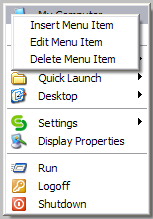
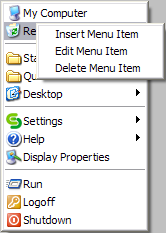
Documentation updates for 5.2.11

diff --git a/Documentation/emergeWorkspace.html b/Documentation/emergeWorkspace.html
@@ -33,7 +33,7 @@
 
 <p class="style1"><img src="WorkspaceConfig2.png" width="446" height="459"></p>
 <p class="style1" style="margin-bottom: 0;">To Add <img src="Add.png" width="24" height="23" style="width: 24px; height: 23px;"> a new menu item, the user selects one of the following <strong>Types</strong>:</p>
-<p style="margin-top: 0;"><span class="style4">Separator, Executable </span><span class="style3">(in </span><span class="style3"><strong>Value</strong></span><span class="style3"> window,  Browse <img src="BrowseFile.png" width="26" height="25"> for a file)</span><span class="style4">, Internal Command</span><span class="style3"> (list in <strong>Value</strong> window is <a href="internal.html">here</a>)</span><span class="style4">, Date Time</span><span class="style3"> (available formats which can be entered in <strong>Value</strong> window are <a href="TimeDate.html">here</a>)</span><span class="style4">, Special Folders </span><span class="style3">(list in <strong>Value</strong> window is: </span><span class="style4">My Documents, My Computer, My Network Places, Control Panel, Recycle Bin), Submenu </span><span class="style3">(which, after clicking Save <span class="style3" style="margin-top: 0; margin-bottom: 0;"><img src="Save.png" width="24" height="23" style="width: 24px; height: 23px;"></span> , is populated with any <strong>Type</strong> of items by clicking on the <strong>+</strong> sign, highlighting an item inside the Submenu, and clicking on Add <span class="style3" style="margin-top: 0; margin-bottom: 0;"><img src="Add.png" width="24" height="23" style="width: 24px; height: 23px;"></span> for each additional item),</span><span class="style4"> Folder Menu</span><span class="style3"> (in <strong>Value</strong> window</span><span class="style4">, </span><span class="style3">Browse <span class="style3" style="margin-top: 0; margin-bottom: 0;"><img src="Browse.png" width="24" height="23" style="width: 24px; height: 23px;"></span> to any Folder*)</span><span class="style4">, Tasks Menu</span><span class="style3"> (i.e. to display the running Tasks from a folder)</span><span class="style4">, Settings Menu</span><span class="style3"> (i.e. the Emerge Desktop menu)</span>.</p>
+<p style="margin-top: 0;"><span class="style4">Separator, Executable </span><span class="style3">(in </span><span class="style3"><strong>Value</strong></span><span class="style3"> window,  Browse <img src="BrowseFile.png" width="26" height="25"> for a file)</span><span class="style4">, Internal Command</span><span class="style3"> (list in <strong>Value</strong> window is <a href="internal.html">here</a>)</span><span class="style4">, Date Time</span><span class="style3"> (available formats which can be entered in <strong>Value</strong> window are <a href="TimeDate.html">here</a>)</span><span class="style4">, Special Folders </span><span class="style3">(list in <strong>Value</strong> window is: </span><span class="style4">My Documents, My Computer, My Network Places, Control Panel, Recycle Bin), Submenu </span><span class="style3">(which, after clicking Save <span class="style3" style="margin-top: 0; margin-bottom: 0;"><img src="Save.png" width="24" height="23" style="width: 24px; height: 23px;"></span> , is populated with any <strong>Type</strong> of items by clicking on the <strong>+</strong> sign, highlighting an item inside the Submenu, and clicking on Add <span class="style3" style="margin-top: 0; margin-bottom: 0;"><img src="Add.png" width="24" height="23" style="width: 24px; height: 23px;"></span> for each additional item),</span><span class="style4"> Folder Menu</span><span class="style3"> (in <strong>Value</strong> window</span><span class="style4">, </span><span class="style3">Browse <span class="style3" style="margin-top: 0; margin-bottom: 0;"><img src="Browse.png" width="24" height="23" style="width: 24px; height: 23px;"></span> to any Folder*)</span><span class="style4">, Tasks Menu</span><span class="style3"> (i.e. to display the running Tasks from a folder)</span><span class="style4">, Settings Menu</span><span class="style3"> (i.e. the Emerge Desktop menu), Help Menu (Emerge Desktop Help Menu)</span>.</p>
 <p><span class="style1" style="margin-top: 0; margin-bottom: 0;">The user then  types a <strong>Name</strong></span> for the new item, and clicks on Save <img src="Save.png" width="24" height="23" style="width: 24px; height: 23px;"> (or Discard <img src="Discard.png" width="24" height="23" style="width: 24px; height: 23px;"> to start over). Pressing the <strong>OK </strong>button saves the current settings and closes the configuration dialog box.</p>
 <p class="style3" style="margin-bottom: 0;">Menu items displayed in the window can be Modified <img src="Edit.png" width="24" height="23" style="width: 24px; height: 23px;"> or Deleted <img src="Delete.png" width="24" height="23" style="width: 24px; height: 23px;"> after highlighting them. </p>
 <p class="style3" style="margin-top: 0;">After the user adds, deletes or modifies incorrectly an item, she can undo changes by clicking the <strong>Cancel</strong> button. A dialog box will open asking for confirmation to close the configuration dialog box without saving the changes made.</p>
@@ -41,7 +41,7 @@
 <p class="style3">Menu items can be moved up and down by dragging them past other items.</p>
 <p>The context menu of any executable item in the Desktop menu includes &quot;Run as...&quot; or &quot;Run Elevated&quot;, both allowing to run these items from an administrator account after selecting the administrator's user name (or typing an other existing user name) and entering the password in the Run As dialog box. The Emerge Desktop context menu also includes &quot;Open Directory&quot;.</p>
 <p class="style1">The Right<span class="style1" style="margin-top: 0; margin-bottom: 0;">Click</span> and Middle<span class="style1" style="margin-top: 0; margin-bottom: 0;">Click</span> menus can also be edited without opening the Menu Editor, by right-clicking an item directly on the menu:</p>
-<p class="style1"><img src="InsertMenu.png" width="153" height="219"></p>
+<p class="style1"><img src="InsertMenu.png" width="166" height="233"></p>
 <p class="style1"><strong>Insert Menu Item</strong> and <strong>Edit Menu Item</strong> bring up this dialog box (the fields are filled the same way as above):</p>
 <p><span class="style1"><img src="MenuItem.png" width="314" height="186"></span></p>
 <p><span class="style3" style="margin-top: 0; margin-bottom: 0;"><strong>Delete  Menu Item</strong> deletes the highlighted item. <strong>OK</strong> and <strong>Cancel</strong> close the dialog box</span></p>
@@ -52,7 +52,7 @@
     </tr>
 </table>
 <p class="style1">Right-clicking on the desktop brings up the RightClick menu. The default <span class="style1" style="margin-top: 0">RightClick</span> menu includes Windows standard items and <strong>Settings</strong>, Emerge Desktop configuration options:</p>
-<span class="style1"><img src="RightMenu.png" width="148" height="213" border="0" alt="RightMenu"></span>
+<span class="style1"><img src="RightMenu.png" width="150" height="234" border="0" alt="RightMenu"></span>
 <p class="style1">Middle-clicking on the desktop brings up the MiddleClick menu. The default <span class="style1" style="margin-bottom: 0">MiddleClick </span>includes some of Emerge Desktop's internal commands:</p>
 </p>
 <span class="style1"><img src="MidMenu.png" width="130" height="87" border="0" alt="MidMenu"></span>

diff --git a/Documentation/Styles.html b/Documentation/Styles.html
@@ -53,7 +53,8 @@
 <p class="style3"><img src="StyleEditor4.png" width="446" height="459"></p>
 <p class="style3"><b>Miscellaneous Settings</b>:</p>
 <p class="style3" style="margin-bottom: 0;"><b>Shadow</b>: Sets the drop shadow on or off (Default is On)<br>
-    <b>Padding</b>: Sets the width of the area surrounding the icons. (Default is 0)<br>
+  <b><span class="style3" style="margin-top: 0; margin-bottom: 0;">Blur: </span></b><span class="style3" style="margin-top: 0; margin-bottom: 0;">Gives a blurred effect to the background of the applets (i.e. the "Glass" effect) when the Opacity Setting of the Background is less than 100. (Default is Off)</span><b><span class="style3" style="margin-top: 0; margin-bottom: 0;"><br>
+      </span>Padding</b>: Sets the width of the area surrounding the icons. (Default is 0)<br>
     <b>Bevel</b>: Sets the width of the bevel surrounding the applets. (Default is 1)<br>
     <b>Border</b>: Sets the width of the border surrounding the applets. (Default is 1)</p>
 <p class="style3" style="margin-top: 0;"><b>Bevel Type</b>: <strong>Flat</strong> (default), <strong>Raised</strong> (center looks higher than borders, like a button), <strong>Sunken</strong> (center looks lower than borders, like a tray)</p>

diff --git a/Documentation/whatsnew.html b/Documentation/whatsnew.html
@@ -9,29 +9,6 @@
 <table bgcolor="#7f907f" cellpadding="5" cellspacing="0" width="100%">
 <tr><td><font color="white"><b>What's New / History</b></font></td></tr></table>
 
-<p><b>v5.2.10 (January 1st, 2011)</b><br>
-<b>Fixed:</b>
-<ul>
-    <li>Applications like DownloadThemAll and MSN Messenger 2011 not working correctly</li>
-</ul>
-
-<p><b>v5.2.9 (December 23rd, 2010)</b><br>
-<b>Fixed:</b>
-<ul>
-    <li>Background wallpaper not being repainted on display change</li>
-</ul>
-
-<p><b>v5.2.8 (December 6th, 2010)</b><br>
-<b>New:</b>
-<ul>
-    <li>Support for Aero styled menus in emergeWorkspace</li>
-</ul>
-<b>Fixed:</b>
-<ul>
-    <li>icon flashing in emergeTray</li>
-    <li>crash in emergeWorkspace when trying to copy a non-existant style file</li>
-</ul>
-
 <p><b>v5.2.7 (November 5th, 2010)</b><br>
 <b>Fixed:</b>
 <ul>
